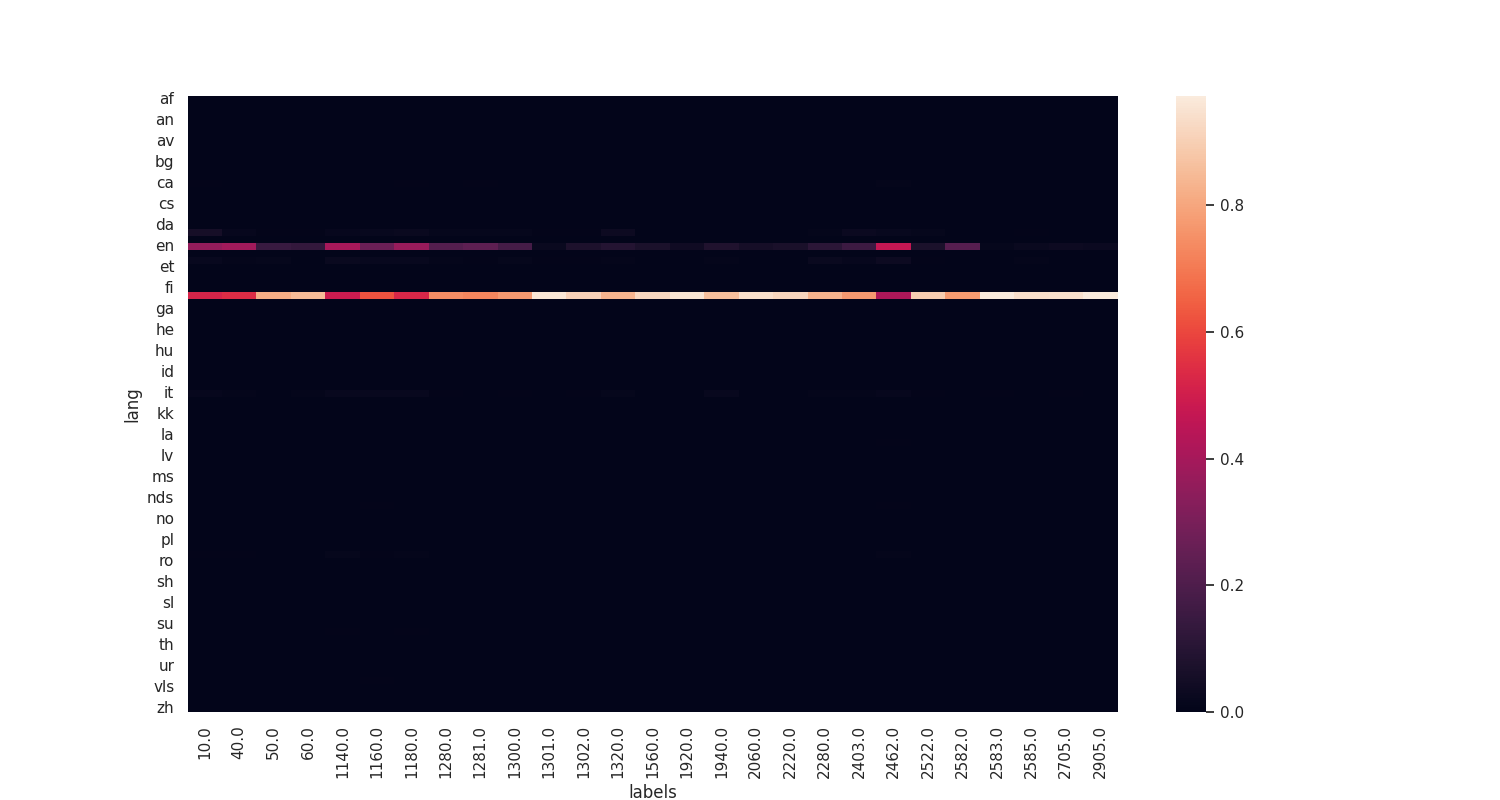
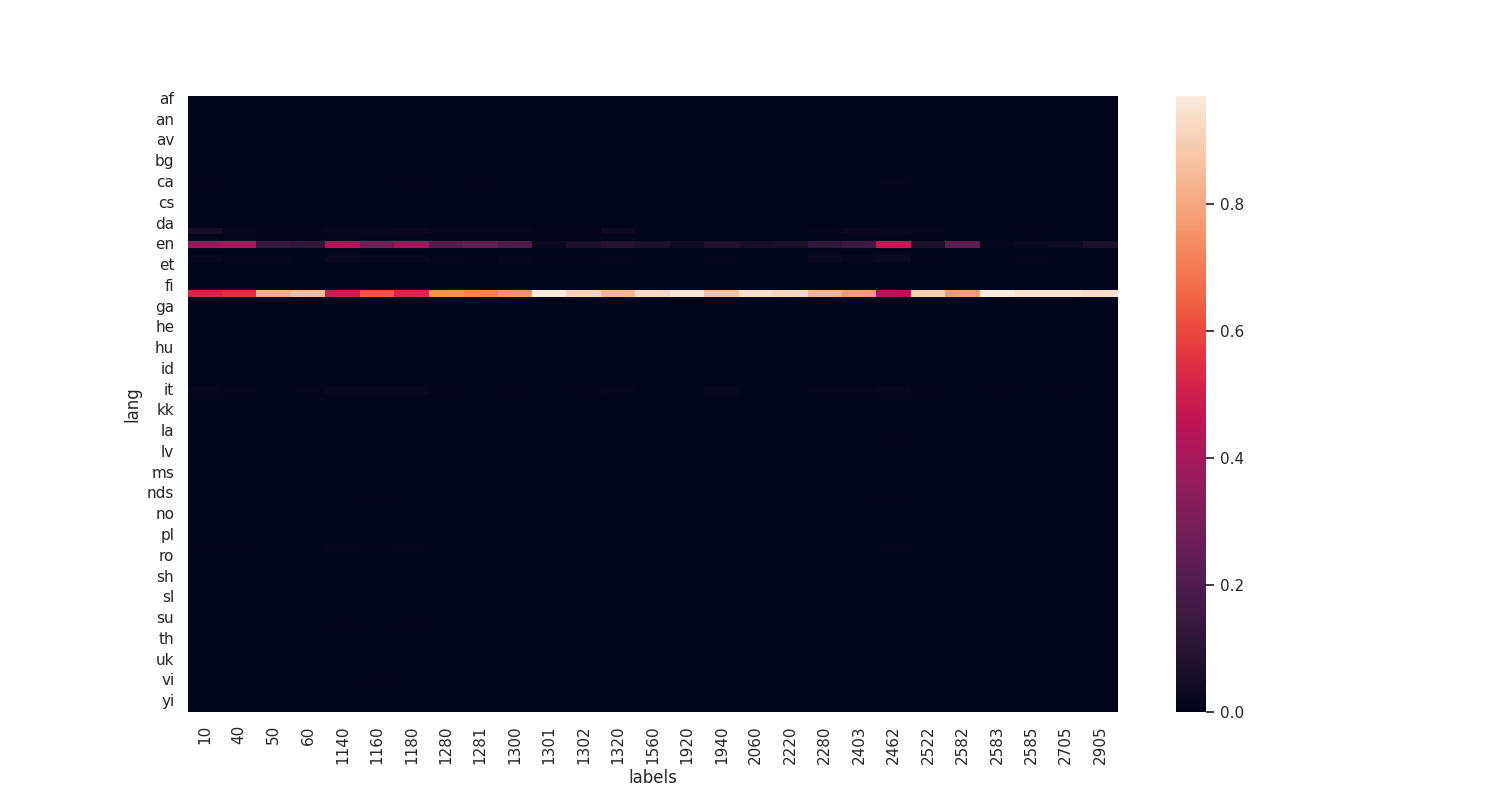
Update images to sns.theme

diff --git a/src/generators/generator.py b/src/generators/generator.py
@@ -21,6 +21,8 @@ from tensorflow.keras.layers import TextVectorization
 from tools.text import pipeline_loader, pipeline_lang
 from tools.commons import convert_to_readable_categories
 
+sns.set_theme()
+
 class DataGenerator():
     def __init__(self,
         batch_size = 32,
@@ -100,7 +102,7 @@ class DataGenerator():
             if self.exploration:
                 self.explore()
 
-            self.data["names"] = convert_to_readable_categories(self.data.labels)
+            self.data["names"] = self.convert_to_readable_categories(self.data.labels)
 
     def convert_to_readable_macrocategories(self, serie:pd.Series):
         categories_num = [
@@ -348,7 +350,7 @@ class DataGenerator():
     def explore(self):
         
         data_explore = self.data.copy()
-        data_explore["prdtypename"] = convert_to_readable_categories(data_explore.labels)
+        data_explore["prdtypename"] = self.convert_to_readable_categories(data_explore.labels)
 
         self.analysis_imbalanced(data_explore)
         self.analysis_words(data_explore)
@@ -368,7 +370,7 @@ class DataGenerator():
             print("chi2 : ", chi2, " pvalue : ", pvalue)
 
             sns.heatmap(table_norm)
-            plt.savefig(f"notebooks/images/chi_{column}.png")
+            plt.savefig(f"../notebooks/images/chi_{column}.png")
             plt.clf()
 
         print("analysis imbalanced finished")
@@ -390,7 +392,7 @@ class DataGenerator():
             ylabel='Nombre de titres / langue [-]',
             title='Analyse de la répartition des langues')
 
-        plt.savefig("notebooks/images/lang.png")
+        plt.savefig("../notebooks/images/lang.png")
         plt.clf()
 
         print("analysis language finished")
@@ -408,7 +410,7 @@ class DataGenerator():
             xlabel='Nombre de produits [-]',
             ylabel='Catégories [-]',
             title='Nombre de produits par catégorie (Train)')
-        plt.savefig("notebooks/images/imbalanced.png")
+        plt.savefig("../notebooks/images/imbalanced.png")
         plt.clf()
 
         print("analysis imbalanced finished")
@@ -441,7 +443,7 @@ class DataGenerator():
             ylabel='Total [-]',
             title='Nombre de mots dans `description` (Train)')
 
-        plt.savefig("notebooks/images/words.png")
+        plt.savefig("../notebooks/images/words.png")
         plt.clf()
 
         print("analysis words finished")
